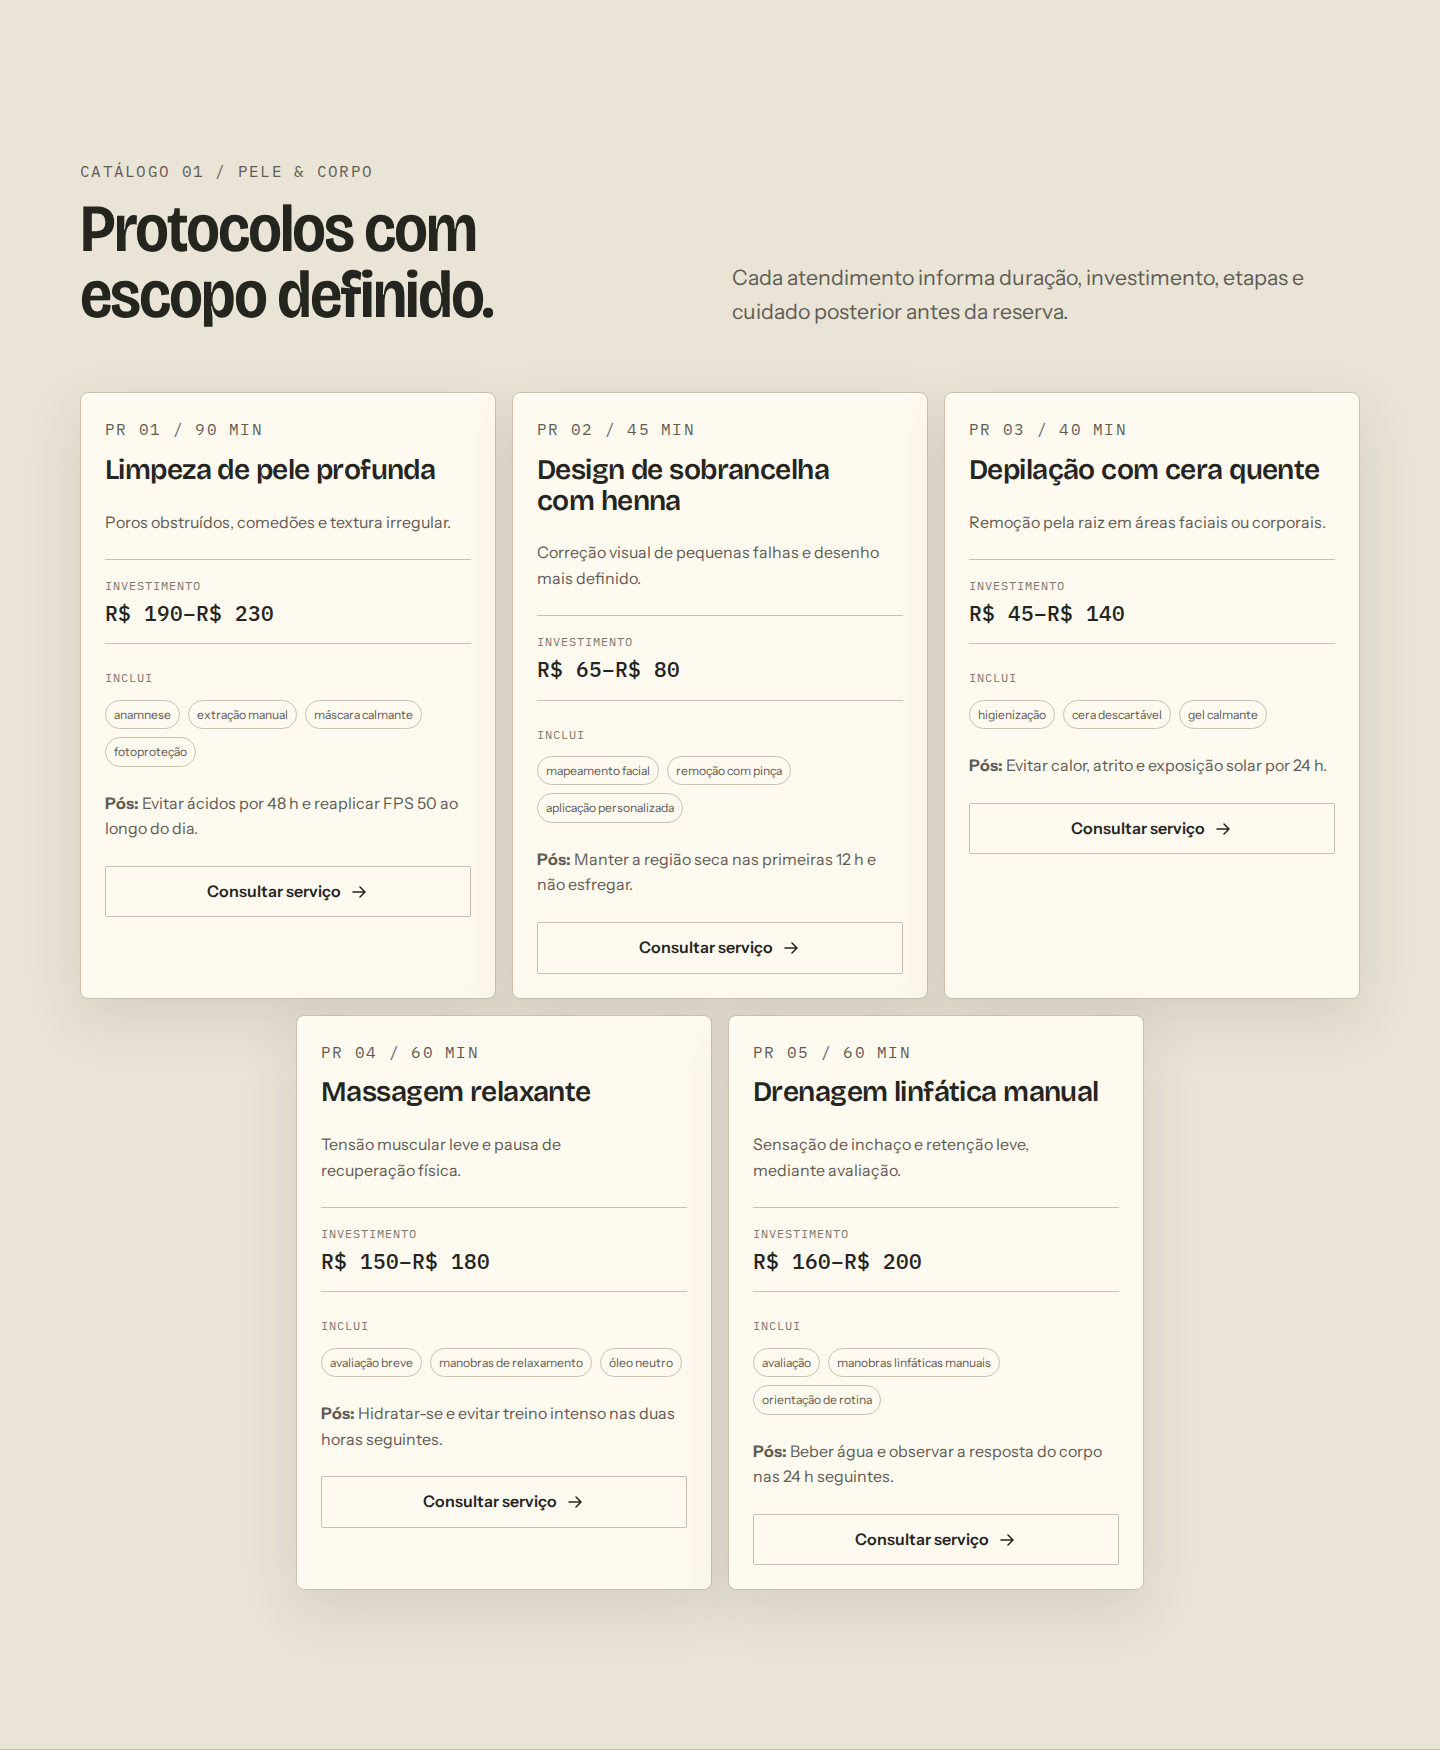
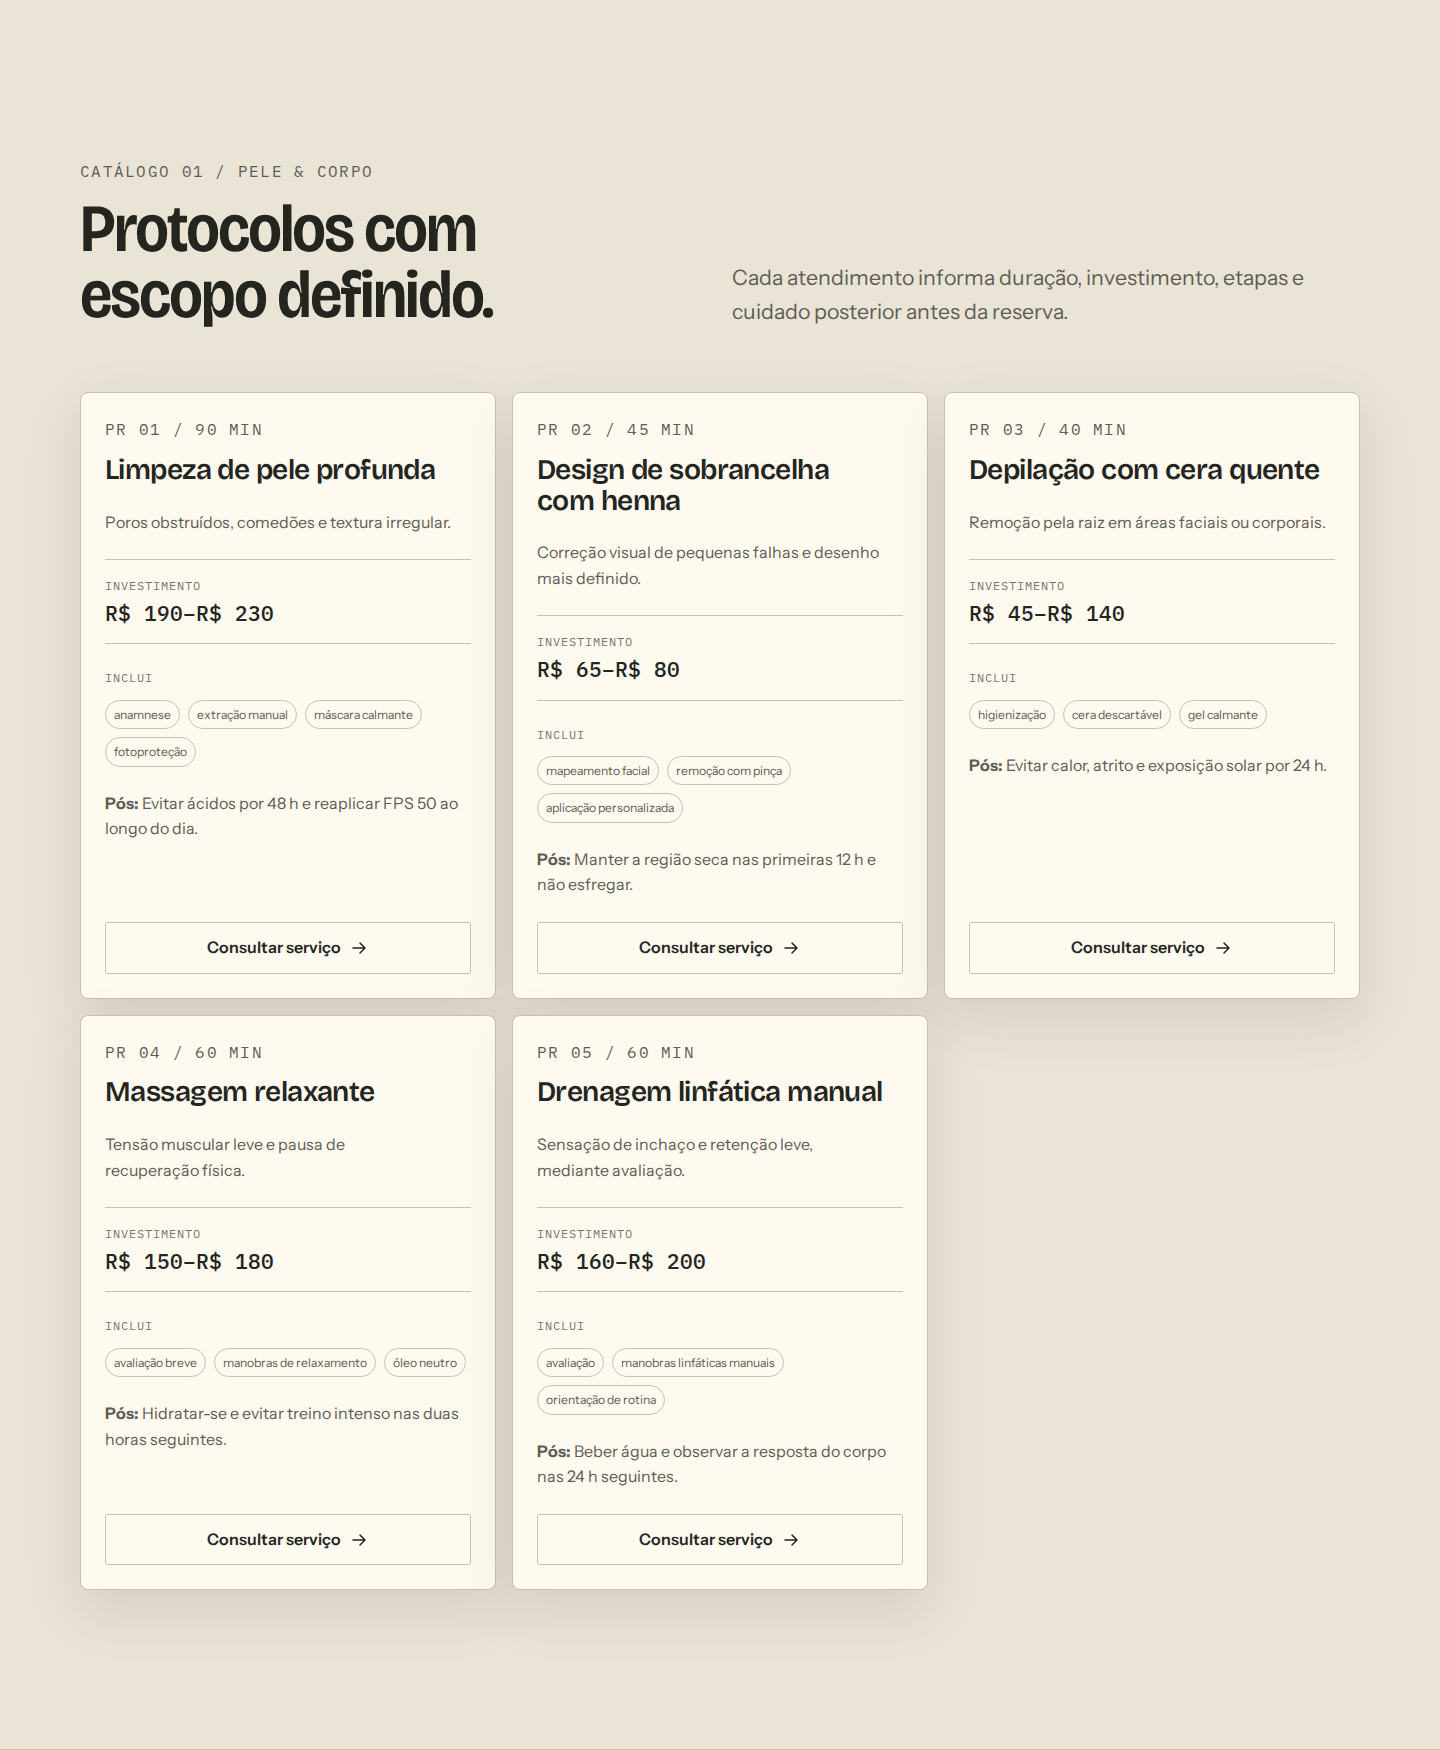
fix(layout): alinhar cards e preencher painel do hero

Changed region(s): [[0.0312, 0.4937, 0.8438, 0.9257], [0.75, 0.4629, 0.8438, 0.4937]]

diff --git a/src/app/globals.css b/src/app/globals.css
@@ -394,32 +394,31 @@ a {
   inset: 0;
 }
 
-.hero__visual picture {
-  opacity: 0.28;
-}
-
 .hero__visual img {
-  object-fit: cover;
+  z-index: 1;
+  padding: clamp(2rem, 5vw, 4.5rem);
+  object-fit: contain;
+  opacity: 0.94;
 }
 
 .hero__visual::after {
   position: absolute;
-  z-index: 1;
+  z-index: 2;
   background: var(--superficie);
   content: "";
   inset: 0;
-  opacity: 0.18;
+  opacity: 0.08;
   pointer-events: none;
 }
 
 .hero__canvas {
-  z-index: 2;
+  z-index: 3;
   pointer-events: none;
 }
 
 .hero__visual figcaption {
   position: absolute;
-  z-index: 3;
+  z-index: 4;
   right: var(--esp-4);
   bottom: var(--esp-4);
   left: var(--esp-4);
@@ -480,6 +479,7 @@ a {
 
 .servicos__grade {
   display: grid;
+  align-items: stretch;
   gap: var(--esp-4);
   grid-template-columns: minmax(0, 1fr);
 }
@@ -487,8 +487,9 @@ a {
 .servicos__cartao {
   display: grid;
   min-width: 0;
-  align-content: start;
+  align-content: stretch;
   gap: var(--esp-5);
+  grid-template-rows: auto auto auto auto minmax(0, 1fr) auto;
   padding: var(--esp-5);
   border: 0.0625rem solid var(--linha);
   border-radius: var(--raio-2);
@@ -909,8 +910,8 @@ a {
 .alternador-tema {
   position: fixed;
   z-index: 20;
-  right: var(--gutter);
-  bottom: var(--gutter);
+  right: 1.5rem;
+  bottom: 1.5rem;
   width: min(calc(100% - 2 * var(--gutter)), 27rem);
   padding: var(--esp-2);
   border: 0.0625rem solid var(--linha);
@@ -989,9 +990,12 @@ a {
 
 @media (max-width: 47.999rem) {
   .alternador-tema {
+    top: calc(var(--altura-cabecalho) + 1rem);
+    right: 1rem;
+    bottom: auto;
     display: grid;
     width: auto;
-    max-width: calc(100% - 2 * var(--gutter));
+    max-width: calc(100% - 2rem);
     align-items: center;
     grid-template-columns: auto 1fr;
   }
@@ -1019,28 +1023,15 @@ a {
     clip: rect(0 0 0 0);
     white-space: nowrap;
   }
-}
-
-@media (max-width: 31.999rem) {
-  .alternador-tema {
-    top: calc(var(--altura-cabecalho) + var(--esp-2));
-    bottom: auto;
-  }
 
   .hero {
     padding-block-start: calc(clamp(3.5rem, 8vw, 7rem) + 4.75rem);
   }
 }
 
-@media (min-width: 32rem) {
+@media (min-width: 30rem) {
   .servicos__grade {
     grid-template-columns: repeat(2, minmax(0, 1fr));
-  }
-
-  .servicos__cartao:last-child {
-    width: calc((100% - var(--esp-4)) / 2);
-    justify-self: center;
-    grid-column: 1 / -1;
   }
 }
 
@@ -1131,12 +1122,7 @@ a {
   }
 
   .servicos__cartao {
-    width: auto;
     grid-column: span 4;
-  }
-
-  .servicos__cartao:last-child {
-    width: auto;
   }
 
   .hero__texto {
@@ -1144,11 +1130,11 @@ a {
   }
 
   .servicos__cartao:nth-child(4) {
-    grid-column: 3 / span 4;
+    grid-column: 1 / span 4;
   }
 
   .servicos__cartao:nth-child(5) {
-    grid-column: 7 / span 4;
+    grid-column: 5 / span 4;
   }
 }
 

diff --git a/src/components/secoes/Hero.tsx b/src/components/secoes/Hero.tsx
@@ -39,20 +39,17 @@ export function Hero() {
         </div>
 
         <figure className="hero__visual" data-revelar style={{ "--i": 2 } as CSSProperties}>
-          <picture>
-            <source media="(min-width: 48rem)" srcSet="/img/hero-paisagem.webp" />
-            <Image
-              alt=""
-              fill
-              priority
-              sizes="(min-width: 48rem) 42vw, calc(100vw - 2 * var(--gutter))"
-              src="/img/hero-retrato.webp"
-              unoptimized
-            />
-          </picture>
+          <Image
+            alt="Kit técnico de manicure com alicate, palito, lixa e bloco polidor."
+            fill
+            priority
+            sizes="(min-width: 48rem) 42vw, calc(100vw - 2 * var(--gutter))"
+            src="/img/assets/h-kit-manicure-explodido.webp"
+            unoptimized
+          />
           <CanvasHero />
           <figcaption>
-            <span>Campo 09 / leitura de superfície</span>
+            <span>Amostra 08 / kit manicure explodido</span>
             <span>{contato.cidade}</span>
           </figcaption>
         </figure>
